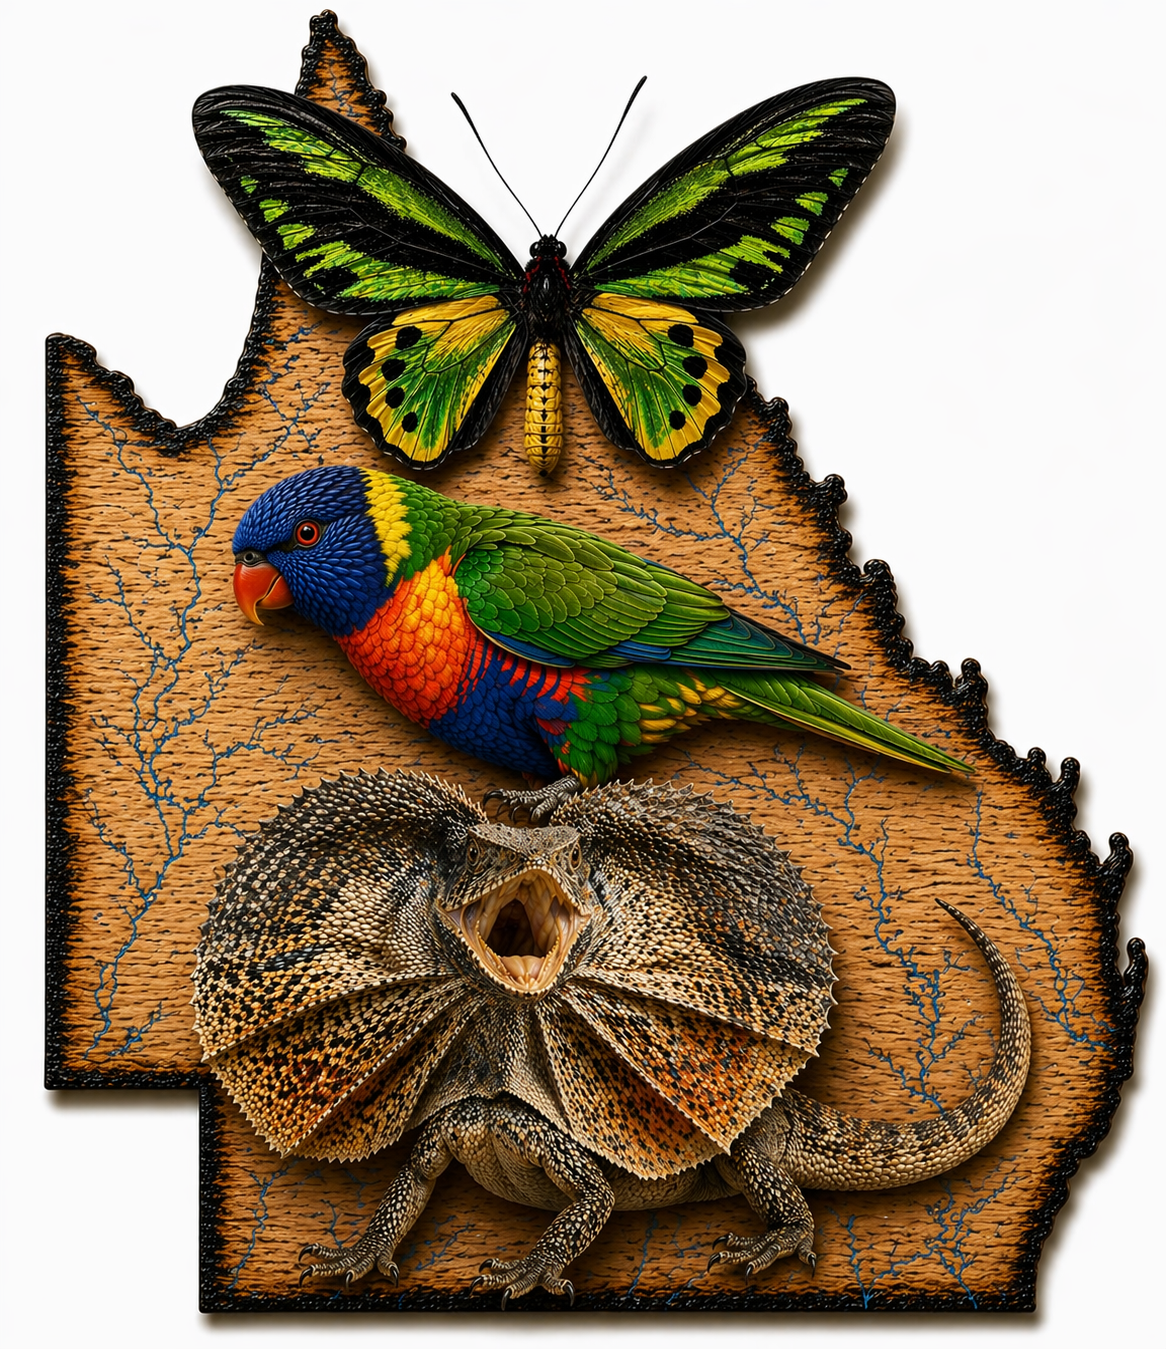
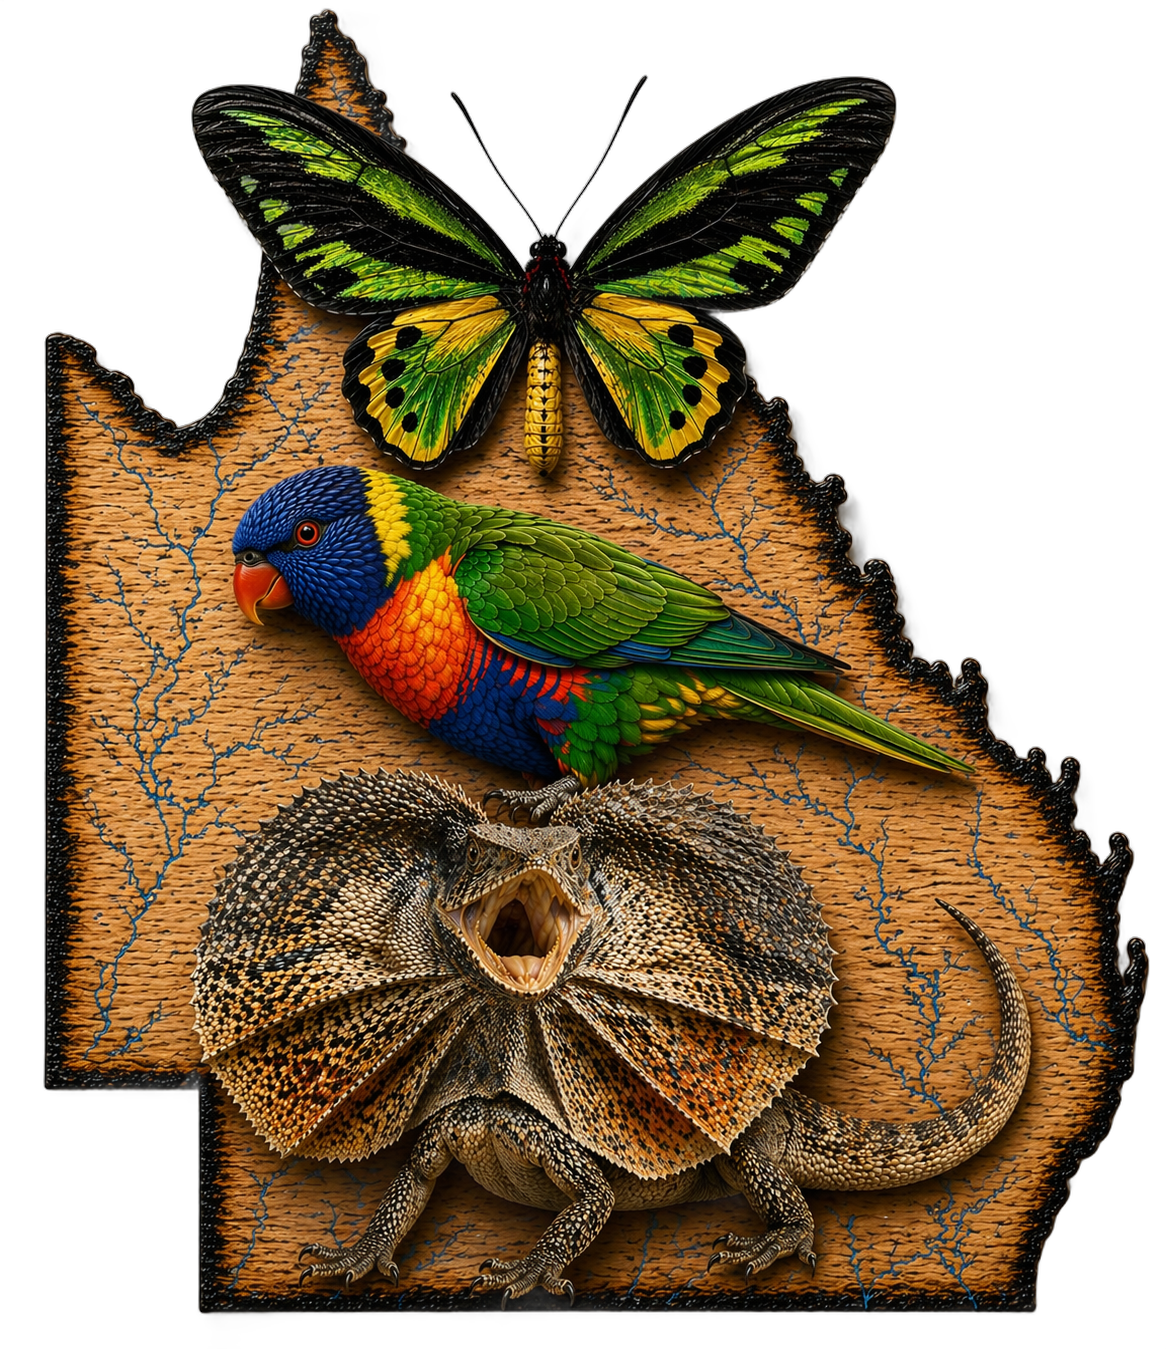
Catch the 6 PNGs the first bg-removal pass missed
Five Montages PNGs and HQ Monaro Blue were saved out as PNG from the
PIL ingest, so the first rembg pass (which only globbed *.jpg) skipped
them. The flat white backdrop showed up against the white category
cards on the homepage.

remove-bgs-batch.py now also walks *.png, but only re-processes files
where all four corners are opaque-and-near-white (so already-clean
cutouts like coral.png stay untouched). Six files were caught:
- hq-monaro-blue.png
- montage-australia-clean.png
- montage-australia-veined.png
- montage-fnq-reef-trinity.png
- montage-qld-wildlife.png
- montage-top-end-predators.png

All 18 category-card images on the homepage now sample as fully
transparent in the corners. Cache version bumped to 10.

diff --git a/shop.html b/shop.html
@@ -8,10 +8,10 @@
 <link rel="preconnect" href="https://fonts.googleapis.com" />
 <link rel="preconnect" href="https://fonts.gstatic.com" crossorigin />
 <link href="https://fonts.googleapis.com/css2?family=Cormorant+Garamond:wght@400;500;600;700&family=Cinzel:wght@400;500;600;700&family=Inter:wght@300;400;500;600;700&family=Great+Vibes&family=Dancing+Script:wght@500;600&display=swap" rel="stylesheet" />
-<link rel="stylesheet" href="assets/styles.css?v=20260427-9" />
-<link rel="icon" type="image/png" sizes="32x32" href="assets/favicon-32.png?v=20260427-9" />
-<link rel="icon" type="image/png" sizes="16x16" href="assets/favicon-16.png?v=20260427-9" />
-<link rel="apple-touch-icon" sizes="180x180" href="assets/apple-touch-icon.png?v=20260427-9" />
+<link rel="stylesheet" href="assets/styles.css?v=20260427-10" />
+<link rel="icon" type="image/png" sizes="32x32" href="assets/favicon-32.png?v=20260427-10" />
+<link rel="icon" type="image/png" sizes="16x16" href="assets/favicon-16.png?v=20260427-10" />
+<link rel="apple-touch-icon" sizes="180x180" href="assets/apple-touch-icon.png?v=20260427-10" />
 <link rel="manifest" href="manifest.webmanifest" />
 <meta name="theme-color" content="#1c130a" />
 <meta name="apple-mobile-web-app-capable" content="yes" />
@@ -24,7 +24,7 @@
 <header class="site-nav" id="siteNav">
   <div class="nav-inner">
     <a href="index.html" class="brand">
-      <span class="brand-mark"><img src="assets/logos/logo-mark-96.png?v=20260427-9" alt="Crystal Brook Wall Mounts emblem" width="64" height="64" style="display:block;border-radius:7px;" /></span>
+      <span class="brand-mark"><img src="assets/logos/logo-mark-96.png?v=20260427-10" alt="Crystal Brook Wall Mounts emblem" width="64" height="64" style="display:block;border-radius:7px;" /></span>
       <span class="brand-text">
         <span class="brand-name">Crystal Brook</span>
         <span class="brand-sub">Wall Mounts</span>
@@ -314,7 +314,7 @@
 <!-- ============ PWA INSTALL PROMPT ============ -->
 <div class="pwa-install" id="pwaInstall" hidden role="dialog" aria-labelledby="pwaInstallTitle">
   <div class="pwa-install-mark" aria-hidden="true">
-    <img src="assets/logos/logo-mark-96.png?v=20260427-9" alt="" width="44" height="44" style="display:block;border-radius:6px;"/>
+    <img src="assets/logos/logo-mark-96.png?v=20260427-10" alt="" width="44" height="44" style="display:block;border-radius:6px;"/>
   </div>
   <div class="pwa-install-copy">
     <strong id="pwaInstallTitle">Add Crystal Brook to your home screen</strong>
@@ -453,7 +453,7 @@
 <aside class="nav-drawer" id="navDrawer" aria-hidden="true" aria-label="Mobile navigation">
   <div class="nav-drawer-head">
     <span class="brand">
-      <span class="brand-mark"><img src="assets/logos/logo-mark-96.png?v=20260427-9" alt="Crystal Brook Wall Mounts emblem" width="64" height="64" style="display:block;border-radius:7px;" /></span>
+      <span class="brand-mark"><img src="assets/logos/logo-mark-96.png?v=20260427-10" alt="Crystal Brook Wall Mounts emblem" width="64" height="64" style="display:block;border-radius:7px;" /></span>
       <span class="brand-text">
         <span class="brand-name">Crystal Brook</span>
         <span class="brand-sub">Wall Mounts</span>
@@ -481,6 +481,6 @@
 <!-- ============ TOAST ============ -->
 <div class="toast" id="toast" role="status" aria-live="polite"></div>
 
-<script src="assets/app.js?v=20260427-9"></script>
+<script src="assets/app.js?v=20260427-10"></script>
 </body>
 </html>

diff --git a/index.html b/index.html
@@ -8,10 +8,10 @@
 <link rel="preconnect" href="https://fonts.googleapis.com" />
 <link rel="preconnect" href="https://fonts.gstatic.com" crossorigin />
 <link href="https://fonts.googleapis.com/css2?family=Cormorant+Garamond:wght@400;500;600;700&family=Cinzel:wght@400;500;600;700&family=Inter:wght@300;400;500;600;700&family=Great+Vibes&family=Dancing+Script:wght@500;600&display=swap" rel="stylesheet" />
-<link rel="stylesheet" href="assets/styles.css?v=20260427-9" />
-<link rel="icon" type="image/png" sizes="32x32" href="assets/favicon-32.png?v=20260427-9" />
-<link rel="icon" type="image/png" sizes="16x16" href="assets/favicon-16.png?v=20260427-9" />
-<link rel="apple-touch-icon" sizes="180x180" href="assets/apple-touch-icon.png?v=20260427-9" />
+<link rel="stylesheet" href="assets/styles.css?v=20260427-10" />
+<link rel="icon" type="image/png" sizes="32x32" href="assets/favicon-32.png?v=20260427-10" />
+<link rel="icon" type="image/png" sizes="16x16" href="assets/favicon-16.png?v=20260427-10" />
+<link rel="apple-touch-icon" sizes="180x180" href="assets/apple-touch-icon.png?v=20260427-10" />
 <link rel="manifest" href="manifest.webmanifest" />
 <meta name="theme-color" content="#1c130a" />
 <meta name="apple-mobile-web-app-capable" content="yes" />
@@ -24,7 +24,7 @@
 <header class="site-nav" id="siteNav">
   <div class="nav-inner">
     <a href="#top" class="brand">
-      <span class="brand-mark"><img src="assets/logos/logo-mark-96.png?v=20260427-9" alt="Crystal Brook Wall Mounts emblem" width="64" height="64" style="display:block;border-radius:7px;" /></span>
+      <span class="brand-mark"><img src="assets/logos/logo-mark-96.png?v=20260427-10" alt="Crystal Brook Wall Mounts emblem" width="64" height="64" style="display:block;border-radius:7px;" /></span>
       <span class="brand-text">
         <span class="brand-name">Crystal Brook</span>
         <span class="brand-sub">Wall Mounts</span>
@@ -207,7 +207,7 @@
 <!-- ============ PWA INSTALL PROMPT ============ -->
 <div class="pwa-install" id="pwaInstall" hidden role="dialog" aria-labelledby="pwaInstallTitle">
   <div class="pwa-install-mark" aria-hidden="true">
-    <img src="assets/logos/logo-mark-96.png?v=20260427-9" alt="" width="44" height="44" style="display:block;border-radius:6px;"/>
+    <img src="assets/logos/logo-mark-96.png?v=20260427-10" alt="" width="44" height="44" style="display:block;border-radius:6px;"/>
   </div>
   <div class="pwa-install-copy">
     <strong id="pwaInstallTitle">Add Crystal Brook to your home screen</strong>
@@ -355,7 +355,7 @@
 <aside class="nav-drawer" id="navDrawer" aria-hidden="true" aria-label="Mobile navigation">
   <div class="nav-drawer-head">
     <span class="brand">
-      <span class="brand-mark"><img src="assets/logos/logo-mark-96.png?v=20260427-9" alt="Crystal Brook Wall Mounts emblem" width="64" height="64" style="display:block;border-radius:7px;" /></span>
+      <span class="brand-mark"><img src="assets/logos/logo-mark-96.png?v=20260427-10" alt="Crystal Brook Wall Mounts emblem" width="64" height="64" style="display:block;border-radius:7px;" /></span>
       <span class="brand-text">
         <span class="brand-name">Crystal Brook</span>
         <span class="brand-sub">Wall Mounts</span>
@@ -383,6 +383,6 @@
 <!-- ============ TOAST ============ -->
 <div class="toast" id="toast" role="status" aria-live="polite"></div>
 
-<script src="assets/app.js?v=20260427-9"></script>
+<script src="assets/app.js?v=20260427-10"></script>
 </body>
 </html>

diff --git a/about.html b/about.html
@@ -8,10 +8,10 @@
 <link rel="preconnect" href="https://fonts.googleapis.com" />
 <link rel="preconnect" href="https://fonts.gstatic.com" crossorigin />
 <link href="https://fonts.googleapis.com/css2?family=Cormorant+Garamond:wght@400;500;600;700&family=Inter:wght@300;400;500;600;700&display=swap" rel="stylesheet" />
-<link rel="stylesheet" href="assets/styles.css?v=20260427-9" />
-<link rel="icon" type="image/png" sizes="32x32" href="assets/favicon-32.png?v=20260427-9" />
-<link rel="icon" type="image/png" sizes="16x16" href="assets/favicon-16.png?v=20260427-9" />
-<link rel="apple-touch-icon" sizes="180x180" href="assets/apple-touch-icon.png?v=20260427-9" />
+<link rel="stylesheet" href="assets/styles.css?v=20260427-10" />
+<link rel="icon" type="image/png" sizes="32x32" href="assets/favicon-32.png?v=20260427-10" />
+<link rel="icon" type="image/png" sizes="16x16" href="assets/favicon-16.png?v=20260427-10" />
+<link rel="apple-touch-icon" sizes="180x180" href="assets/apple-touch-icon.png?v=20260427-10" />
 <link rel="manifest" href="manifest.webmanifest" />
 <meta name="theme-color" content="#ffffff" />
 <meta name="apple-mobile-web-app-capable" content="yes" />
@@ -294,7 +294,7 @@
 <header class="site-nav" id="siteNav">
   <div class="nav-inner">
     <a href="index.html" class="brand">
-      <span class="brand-mark"><img src="assets/logos/logo-mark-96.png?v=20260427-9" alt="Crystal Brook Wall Mounts emblem" width="64" height="64" style="display:block;border-radius:7px;" /></span>
+      <span class="brand-mark"><img src="assets/logos/logo-mark-96.png?v=20260427-10" alt="Crystal Brook Wall Mounts emblem" width="64" height="64" style="display:block;border-radius:7px;" /></span>
       <span class="brand-text">
         <span class="brand-name">Crystal Brook</span>
         <span class="brand-sub">Wall Mounts</span>
@@ -343,7 +343,7 @@
     </div>
     <div>
       <div class="about-portrait">
-        <img src="assets/images/max-portrait.jpg?v=20260427-9" alt="Max White on the FNQ coast holding one of his torched-wood shark mounts" />
+        <img src="assets/images/max-portrait.jpg?v=20260427-10" alt="Max White on the FNQ coast holding one of his torched-wood shark mounts" />
       </div>
       <p class="about-portrait-cap">Max with one of his torched-shark pieces, on the coast just south of Gordonvale.</p>
     </div>
@@ -473,7 +473,7 @@
 <aside class="nav-drawer" id="navDrawer" aria-hidden="true" aria-label="Mobile navigation">
   <div class="nav-drawer-head">
     <span class="brand">
-      <span class="brand-mark"><img src="assets/logos/logo-mark-96.png?v=20260427-9" alt="Crystal Brook Wall Mounts emblem" width="64" height="64" style="display:block;border-radius:7px;" /></span>
+      <span class="brand-mark"><img src="assets/logos/logo-mark-96.png?v=20260427-10" alt="Crystal Brook Wall Mounts emblem" width="64" height="64" style="display:block;border-radius:7px;" /></span>
       <span class="brand-text">
         <span class="brand-name">Crystal Brook</span>
         <span class="brand-sub">Wall Mounts</span>
@@ -501,6 +501,6 @@
 <!-- ============ TOAST ============ -->
 <div class="toast" id="toast" role="status" aria-live="polite"></div>
 
-<script src="assets/app.js?v=20260427-9"></script>
+<script src="assets/app.js?v=20260427-10"></script>
 </body>
 </html>

diff --git a/order.html b/order.html
@@ -8,10 +8,10 @@
 <link rel="preconnect" href="https://fonts.googleapis.com" />
 <link rel="preconnect" href="https://fonts.gstatic.com" crossorigin />
 <link href="https://fonts.googleapis.com/css2?family=Cormorant+Garamond:wght@400;500;600;700&family=Cinzel:wght@400;500;600;700&family=Inter:wght@300;400;500;600;700&display=swap" rel="stylesheet" />
-<link rel="stylesheet" href="assets/styles.css?v=20260427-9" />
-<link rel="icon" type="image/png" sizes="32x32" href="assets/favicon-32.png?v=20260427-9" />
-<link rel="icon" type="image/png" sizes="16x16" href="assets/favicon-16.png?v=20260427-9" />
-<link rel="apple-touch-icon" sizes="180x180" href="assets/apple-touch-icon.png?v=20260427-9" />
+<link rel="stylesheet" href="assets/styles.css?v=20260427-10" />
+<link rel="icon" type="image/png" sizes="32x32" href="assets/favicon-32.png?v=20260427-10" />
+<link rel="icon" type="image/png" sizes="16x16" href="assets/favicon-16.png?v=20260427-10" />
+<link rel="apple-touch-icon" sizes="180x180" href="assets/apple-touch-icon.png?v=20260427-10" />
 <link rel="manifest" href="manifest.webmanifest" />
 <meta name="theme-color" content="#1c130a" />
 <meta name="apple-mobile-web-app-capable" content="yes" />
@@ -24,7 +24,7 @@
 <header class="site-nav" id="siteNav">
   <div class="nav-inner">
     <a href="index.html" class="brand">
-      <span class="brand-mark"><img src="assets/logos/logo-mark-96.png?v=20260427-9" alt="Crystal Brook Wall Mounts emblem" width="64" height="64" style="display:block;border-radius:7px;" /></span>
+      <span class="brand-mark"><img src="assets/logos/logo-mark-96.png?v=20260427-10" alt="Crystal Brook Wall Mounts emblem" width="64" height="64" style="display:block;border-radius:7px;" /></span>
       <span class="brand-text">
         <span class="brand-name">Crystal Brook</span>
         <span class="brand-sub">Wall Mounts</span>
@@ -187,7 +187,7 @@
 <aside class="nav-drawer" id="navDrawer" aria-hidden="true" aria-label="Mobile navigation">
   <div class="nav-drawer-head">
     <span class="brand">
-      <span class="brand-mark"><img src="assets/logos/logo-mark-96.png?v=20260427-9" alt="Crystal Brook Wall Mounts emblem" width="64" height="64" style="display:block;border-radius:7px;" /></span>
+      <span class="brand-mark"><img src="assets/logos/logo-mark-96.png?v=20260427-10" alt="Crystal Brook Wall Mounts emblem" width="64" height="64" style="display:block;border-radius:7px;" /></span>
       <span class="brand-text"><span class="brand-name">Crystal Brook</span><span class="brand-sub">Wall Mounts</span></span>
     </span>
     <button class="icon-btn" id="navDrawerClose" aria-label="Close menu" type="button">
@@ -212,6 +212,6 @@
 <!-- ============ TOAST ============ -->
 <div class="toast" id="toast" role="status" aria-live="polite"></div>
 
-<script src="assets/app.js?v=20260427-9"></script>
+<script src="assets/app.js?v=20260427-10"></script>
 </body>
 </html>

diff --git a/product.html b/product.html
@@ -8,10 +8,10 @@
 <link rel="preconnect" href="https://fonts.googleapis.com" />
 <link rel="preconnect" href="https://fonts.gstatic.com" crossorigin />
 <link href="https://fonts.googleapis.com/css2?family=Cormorant+Garamond:wght@400;500;600;700&family=Cinzel:wght@400;500;600;700&family=Inter:wght@300;400;500;600;700&family=Great+Vibes&family=Dancing+Script:wght@500;600&display=swap" rel="stylesheet" />
-<link rel="stylesheet" href="assets/styles.css?v=20260427-9" />
-<link rel="icon" type="image/png" sizes="32x32" href="assets/favicon-32.png?v=20260427-9" />
-<link rel="icon" type="image/png" sizes="16x16" href="assets/favicon-16.png?v=20260427-9" />
-<link rel="apple-touch-icon" sizes="180x180" href="assets/apple-touch-icon.png?v=20260427-9" />
+<link rel="stylesheet" href="assets/styles.css?v=20260427-10" />
+<link rel="icon" type="image/png" sizes="32x32" href="assets/favicon-32.png?v=20260427-10" />
+<link rel="icon" type="image/png" sizes="16x16" href="assets/favicon-16.png?v=20260427-10" />
+<link rel="apple-touch-icon" sizes="180x180" href="assets/apple-touch-icon.png?v=20260427-10" />
 <link rel="manifest" href="manifest.webmanifest" />
 <meta name="theme-color" content="#1c130a" />
 <meta name="apple-mobile-web-app-capable" content="yes" />
@@ -24,7 +24,7 @@
 <header class="site-nav" id="siteNav">
   <div class="nav-inner">
     <a href="index.html" class="brand">
-      <span class="brand-mark"><img src="assets/logos/logo-mark-96.png?v=20260427-9" alt="Crystal Brook Wall Mounts emblem" width="64" height="64" style="display:block;border-radius:7px;" /></span>
+      <span class="brand-mark"><img src="assets/logos/logo-mark-96.png?v=20260427-10" alt="Crystal Brook Wall Mounts emblem" width="64" height="64" style="display:block;border-radius:7px;" /></span>
       <span class="brand-text">
         <span class="brand-name">Crystal Brook</span>
         <span class="brand-sub">Wall Mounts</span>
@@ -316,7 +316,7 @@
 <aside class="nav-drawer" id="navDrawer" aria-hidden="true" aria-label="Mobile navigation">
   <div class="nav-drawer-head">
     <span class="brand">
-      <span class="brand-mark"><img src="assets/logos/logo-mark-96.png?v=20260427-9" alt="Crystal Brook Wall Mounts emblem" width="64" height="64" style="display:block;border-radius:7px;" /></span>
+      <span class="brand-mark"><img src="assets/logos/logo-mark-96.png?v=20260427-10" alt="Crystal Brook Wall Mounts emblem" width="64" height="64" style="display:block;border-radius:7px;" /></span>
       <span class="brand-text">
         <span class="brand-name">Crystal Brook</span>
         <span class="brand-sub">Wall Mounts</span>
@@ -344,6 +344,6 @@
 <!-- ============ TOAST ============ -->
 <div class="toast" id="toast" role="status" aria-live="polite"></div>
 
-<script src="assets/app.js?v=20260427-9"></script>
+<script src="assets/app.js?v=20260427-10"></script>
 </body>
 </html>

diff --git a/404.html b/404.html
@@ -8,10 +8,10 @@
 <link rel="preconnect" href="https://fonts.googleapis.com" />
 <link rel="preconnect" href="https://fonts.gstatic.com" crossorigin />
 <link href="https://fonts.googleapis.com/css2?family=Cormorant+Garamond:wght@400;500;600;700&family=Cinzel:wght@400;500;600;700&family=Inter:wght@300;400;500;600;700&display=swap" rel="stylesheet" />
-<link rel="stylesheet" href="assets/styles.css?v=20260427-9" />
-<link rel="icon" type="image/png" sizes="32x32" href="assets/favicon-32.png?v=20260427-9" />
-<link rel="icon" type="image/png" sizes="16x16" href="assets/favicon-16.png?v=20260427-9" />
-<link rel="apple-touch-icon" sizes="180x180" href="assets/apple-touch-icon.png?v=20260427-9" />
+<link rel="stylesheet" href="assets/styles.css?v=20260427-10" />
+<link rel="icon" type="image/png" sizes="32x32" href="assets/favicon-32.png?v=20260427-10" />
+<link rel="icon" type="image/png" sizes="16x16" href="assets/favicon-16.png?v=20260427-10" />
+<link rel="apple-touch-icon" sizes="180x180" href="assets/apple-touch-icon.png?v=20260427-10" />
 <link rel="manifest" href="manifest.webmanifest" />
 <meta name="theme-color" content="#1c130a" />
 </head>
@@ -21,7 +21,7 @@
 <header class="site-nav" id="siteNav">
   <div class="nav-inner">
     <a href="index.html" class="brand">
-      <span class="brand-mark"><img src="assets/logos/logo-mark-96.png?v=20260427-9" alt="Crystal Brook Wall Mounts emblem" width="64" height="64" style="display:block;border-radius:7px;" /></span>
+      <span class="brand-mark"><img src="assets/logos/logo-mark-96.png?v=20260427-10" alt="Crystal Brook Wall Mounts emblem" width="64" height="64" style="display:block;border-radius:7px;" /></span>
       <span class="brand-text">
         <span class="brand-name">Crystal Brook</span>
         <span class="brand-sub">Wall Mounts</span>

diff --git a/policies.html b/policies.html
@@ -8,10 +8,10 @@
 <link rel="preconnect" href="https://fonts.googleapis.com" />
 <link rel="preconnect" href="https://fonts.gstatic.com" crossorigin />
 <link href="https://fonts.googleapis.com/css2?family=Cormorant+Garamond:wght@400;500;600;700&family=Cinzel:wght@400;500;600;700&family=Inter:wght@300;400;500;600;700&display=swap" rel="stylesheet" />
-<link rel="stylesheet" href="assets/styles.css?v=20260427-9" />
-<link rel="icon" type="image/png" sizes="32x32" href="assets/favicon-32.png?v=20260427-9" />
-<link rel="icon" type="image/png" sizes="16x16" href="assets/favicon-16.png?v=20260427-9" />
-<link rel="apple-touch-icon" sizes="180x180" href="assets/apple-touch-icon.png?v=20260427-9" />
+<link rel="stylesheet" href="assets/styles.css?v=20260427-10" />
+<link rel="icon" type="image/png" sizes="32x32" href="assets/favicon-32.png?v=20260427-10" />
+<link rel="icon" type="image/png" sizes="16x16" href="assets/favicon-16.png?v=20260427-10" />
+<link rel="apple-touch-icon" sizes="180x180" href="assets/apple-touch-icon.png?v=20260427-10" />
 <link rel="manifest" href="manifest.webmanifest" />
 <meta name="theme-color" content="#1c130a" />
 </head>
@@ -21,7 +21,7 @@
 <header class="site-nav" id="siteNav">
   <div class="nav-inner">
     <a href="index.html" class="brand">
-      <span class="brand-mark"><img src="assets/logos/logo-mark-96.png?v=20260427-9" alt="Crystal Brook Wall Mounts emblem" width="64" height="64" style="display:block;border-radius:7px;" /></span>
+      <span class="brand-mark"><img src="assets/logos/logo-mark-96.png?v=20260427-10" alt="Crystal Brook Wall Mounts emblem" width="64" height="64" style="display:block;border-radius:7px;" /></span>
       <span class="brand-text">
         <span class="brand-name">Crystal Brook</span>
         <span class="brand-sub">Wall Mounts</span>

diff --git a/admin/index.html b/admin/index.html
@@ -7,10 +7,10 @@
 <link rel="preconnect" href="https://fonts.googleapis.com" />
 <link rel="preconnect" href="https://fonts.gstatic.com" crossorigin />
 <link href="https://fonts.googleapis.com/css2?family=Cormorant+Garamond:wght@500;600;700&family=Inter:wght@300;400;500;600;700&display=swap" rel="stylesheet" />
-<link rel="stylesheet" href="../assets/admin.css?v=20260427-9" />
-<link rel="icon" type="image/png" sizes="32x32" href="assets/favicon-32.png?v=20260427-9" />
-<link rel="icon" type="image/png" sizes="16x16" href="assets/favicon-16.png?v=20260427-9" />
-<link rel="apple-touch-icon" sizes="180x180" href="assets/apple-touch-icon.png?v=20260427-9" />
+<link rel="stylesheet" href="../assets/admin.css?v=20260427-10" />
+<link rel="icon" type="image/png" sizes="32x32" href="assets/favicon-32.png?v=20260427-10" />
+<link rel="icon" type="image/png" sizes="16x16" href="assets/favicon-16.png?v=20260427-10" />
+<link rel="apple-touch-icon" sizes="180x180" href="assets/apple-touch-icon.png?v=20260427-10" />
 <link rel="manifest" href="../manifest.webmanifest" />
 <meta name="theme-color" content="#1c130a" />
 <meta name="apple-mobile-web-app-capable" content="yes" />
@@ -579,6 +579,6 @@ Signed, numbered and wrapped for shipping</textarea></label>
 
 <div class="toast" id="toast" role="status" aria-live="polite"></div>
 
-<script src="../assets/admin.js?v=20260427-9"></script>
+<script src="../assets/admin.js?v=20260427-10"></script>
 </body>
 </html>

diff --git a/sw.js b/sw.js
@@ -6,7 +6,7 @@
  *   - Offline fallback to cached index.html for navigation
  */
 
-const VERSION = 'cbwm-2026-04-27-09';
+const VERSION = 'cbwm-2026-04-27-10';
 const SHELL_CACHE = `${VERSION}-shell`;
 const RUNTIME_CACHE = `${VERSION}-runtime`;
 

diff --git a/scripts/remove-bgs-batch.py b/scripts/remove-bgs-batch.py
@@ -43,20 +43,39 @@ def process(src: Path) -> tuple[Path, int, int]:
     return dst, img.size[0], img.size[1]
 
 
+def has_opaque_white_corners(path: Path) -> bool:
+    """Detect a baked-in white background by sampling the four corners.
+
+    Already-transparent cutout PNGs return False (corners are alpha=0); PNGs
+    saved out of PIL with a flat white background composited on return True.
+    """
+    try:
+        img = Image.open(path).convert("RGBA")
+    except Exception:
+        return False
+    w, h = img.size
+    px = img.load()
+    corners = [px[0, 0], px[w - 1, 0], px[0, h - 1], px[w - 1, h - 1]]
+    # Opaque AND near-white in all four corners ⇒ likely a flat white BG
+    return all(p[3] == 255 and min(p[0], p[1], p[2]) > 235 for p in corners)
+
+
 def main() -> int:
     jpgs = sorted(PRODUCTS.glob("*.jpg")) + sorted(PRODUCTS.glob("*.jpeg"))
-    if not jpgs:
-        print("No .jpg files found in", PRODUCTS)
+    pngs = [p for p in sorted(PRODUCTS.glob("*.png")) if has_opaque_white_corners(p)]
+    targets = jpgs + pngs
+    if not targets:
+        print("No .jpg or white-background .png files found in", PRODUCTS)
         return 1
 
-    print(f"Processing {len(jpgs)} files…")
-    for i, src in enumerate(jpgs, 1):
+    print(f"Processing {len(targets)} files… ({len(jpgs)} jpgs + {len(pngs)} pngs with white BG)")
+    for i, src in enumerate(targets, 1):
         try:
             dst, w, h = process(src)
             sz = dst.stat().st_size / 1024
-            print(f"  [{i:>2}/{len(jpgs)}] {src.name:36s} -> {dst.name:36s}  {w}x{h}  {sz:>5.0f} KB")
+            print(f"  [{i:>2}/{len(targets)}] {src.name:36s} -> {dst.name:36s}  {w}x{h}  {sz:>5.0f} KB")
         except Exception as e:
-            print(f"  [{i:>2}/{len(jpgs)}] {src.name:36s}  FAILED: {e}")
+            print(f"  [{i:>2}/{len(targets)}] {src.name:36s}  FAILED: {e}")
     print("Done.")
     return 0
 
